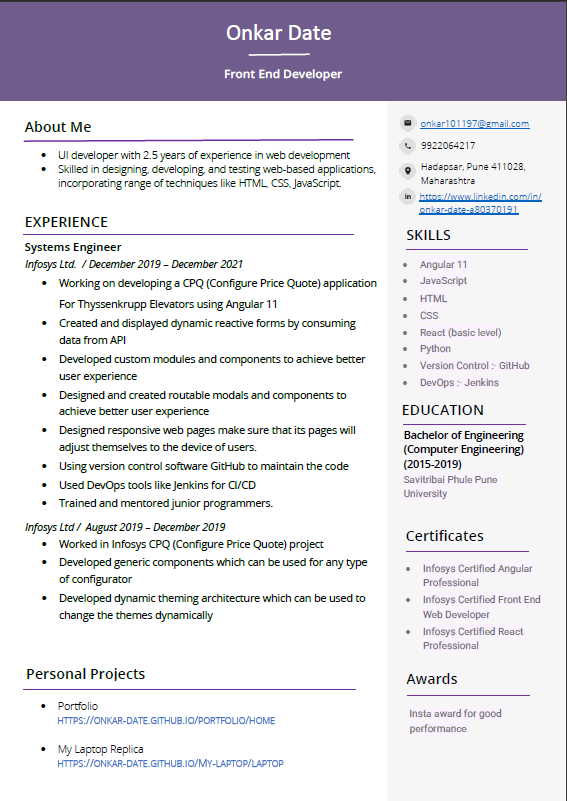
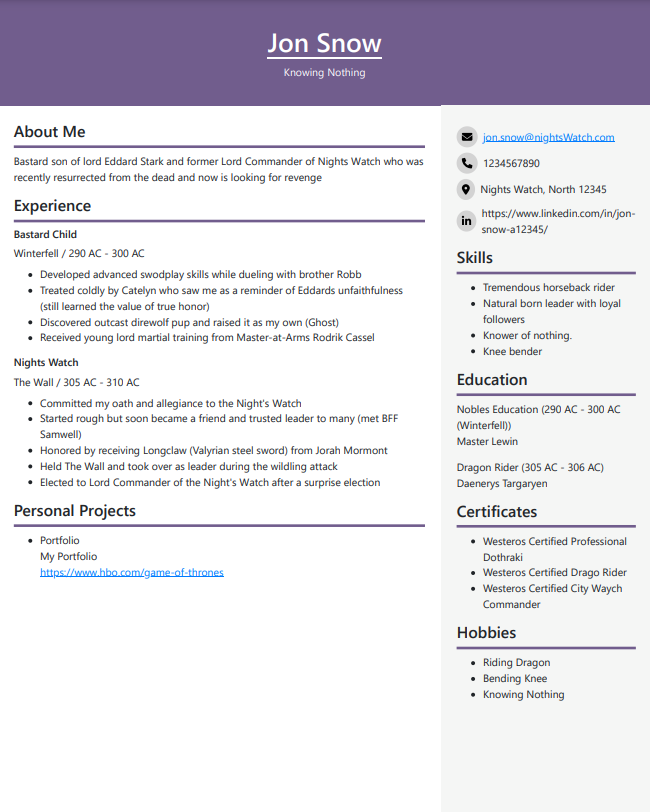
templates images changed

Changed region(s): [[0.0, 0.0, 1.0, 1.0], [0.03, 0.8115, 0.5097, 0.9675]]

diff --git a/src/app/shared/stub/mockData.ts b/src/app/shared/stub/mockData.ts
@@ -10,92 +10,69 @@ import { IExperience } from './../interface/experience.interface';
 import { IEducation } from '../interface/education.interface';
 
 export const mockPersonalDetails: IPersonalDetails = {
-  firstName: 'Onkar',
-  lastName: 'Date',
-  areaOfExpertise: 'Front End Developer',
+  firstName: 'Jon',
+  lastName: 'Snow',
+  areaOfExpertise: 'Knowing Nothing',
   aboutMe:
-    'UI developer with 3 years of experience in web development.Skilled in designing, developing, and testing web-based applications, incorporating range of techniques like HTML, CSS, JavaScript.',
+    'Bastard son of lord Eddard Stark and former Lord Commander of Nights Watch who was recently resurrected from the dead and now is looking for revenge',
 };
 
 export const mockSKills: ISkill[] = [
   {
-    name: 'Angular',
+    name: 'Tremendous horseback rider',
     rating: 5,
   },
   {
-    name: 'Node.js',
+    name: 'Natural born leader with loyal followers',
     rating: 5,
   },
   {
-    name: 'JavaSCript',
+    name: 'Knower of nothing.',
     rating: 4,
   },
   {
-    name: 'Bootstrap',
+    name: 'Knee bender',
     rating: 4,
-  },
-  {
-    name: 'Python',
-    rating: 3,
-  },
-  {
-    name: 'MongoDB',
-    rating: 3,
   },
 ];
 
 export const mockEducation: IEducation[] = [
   {
-    degree: 'Bachelor of Engineering (Computer Engineering)',
-    batch: '2015 - 2019',
-    university: 'Savitribai Phule Pune University',
+    degree: 'Nobles Education',
+    batch: '290 AC - 300 AC (Winterfell)',
+    university: 'Master Lewin',
   },
   {
-    degree: '12th',
-    batch: '2013 - 2015',
-    university: 'Sir Parashurambhau College',
-  },
-  {
-    degree: '10th',
-    batch: '2011 - 2013',
-    university: 'Sane Guruji Madhyamik Vidyalay',
+    degree: 'Dragon Rider',
+    batch: '305 AC - 306 AC',
+    university: 'Daenerys Targaryen',
   },
 ];
 
 export const mockExperience: IExperience[] = [
   {
-    companyName: 'Cognizant Technology Solutions',
-    designation: 'Associate Projects',
-    workedFrom: 'Dec, 2021',
-    workedTill: 'Present',
+    companyName: 'Winterfell',
+    designation: 'Bastard Child',
+    workedFrom: '290 AC',
+    workedTill: '300 AC',
     description: [
-      'Working on developing a angular application For Legato Health Technologies',
-      'Using library based approach for bringing modularity to application.',
-      'Using NgRx store for state management.',
+      'Developed advanced swodplay skills while dueling with brother Robb',
+      'Treated coldly by Catelyn who saw me as a reminder of Eddards unfaithfulness (still learned the value of true honor)',
+      'Discovered outcast direwolf pup and raised it as my own (Ghost)',
+      'Received young lord martial training from Master-at-Arms Rodrik Cassel',
     ],
   },
   {
-    companyName: 'Infosys Ltd.',
-    designation: 'Systems Engineer',
-    workedFrom: 'Jan, 2020',
-    workedTill: 'Dec, 2021',
+    companyName: 'The Wall',
+    designation: 'Nights Watch',
+    workedFrom: '305 AC',
+    workedTill: '310 AC',
     description: [
-      'Working on developing a CPQ (Configure Price Quote) application For Thyssenkrupp Elevators',
-      'Using Angular 11 Created and displayed dynamic reactive forms by consuming data from API.',
-      'Developed custom modules and components to achieve better user experience.',
-      'Designed and created routable modals and components to achieve better user experience',
-    ],
-  },
-  {
-    companyName: 'Infosys Ltd.',
-    designation: 'Systems Engineer Trainee',
-    workedFrom: 'Aug, 2019',
-    workedTill: 'Jan, 2020',
-    description: [
-      'Working on developing a CPQ (Configure Price Quote) application For Thyssenkrupp Elevators',
-      'Using Angular 11 Created and displayed dynamic reactive forms by consuming data from API.',
-      'Developed custom modules and components to achieve better user experience.',
-      'Designed and created routable modals and components to achieve better user experience',
+      "Committed my oath and allegiance to the Night's Watch",
+      'Started rough but soon became a friend and trusted leader to many (met BFF Samwell)',
+      'Honored by receiving Longclaw (Valyrian steel sword) from Jorah Mormont',
+      'Held The Wall and took over as leader during the wildling attack',
+      "Elected to Lord Commander of the Night's Watch after a surprise election",
     ],
   },
 ];
@@ -104,51 +81,35 @@ export const mockProjects: IProject[] = [
   {
     title: 'Portfolio',
     description: 'My Portfolio',
-    link: 'https://onkar-date.github.io/portfolio/home',
-  },
-  {
-    title: 'COVID-19 India',
-    description: 'Corona Tracker website made with Angular and bootstrap',
-    link: 'https://onkar-date.github.io/covid_India/dashboard/home',
-  },
-  {
-    title: 'Wanderlust',
-    description: 'MEAN stack project for planning trips',
-    link: 'https://onkar-date.github.io/wanderlust-UI/home',
-  },
-  {
-    title: 'My Laptop Replica',
-    description:
-      'Replica of my laptop created with Angular and bootstrap and little bit of JS',
-    link: 'https://onkar-date.github.io/My-laptop/laptop',
+    link: 'https://www.hbo.com/game-of-thrones',
   },
 ];
 
 export const mockCertificates: ICertificate[] = [
   {
-    title: 'Infosys Certified Angular Professional',
-    yearOfCompletion: '2021',
+    title: 'Westeros Certified Professional Dothraki',
+    yearOfCompletion: '305',
   },
   {
-    title: 'Infosys Certified Front End Web Developer',
-    yearOfCompletion: '2020',
+    title: 'Westeros Certified Drago Rider',
+    yearOfCompletion: '310',
   },
   {
-    title: 'Infosys Certified React Professional',
-    yearOfCompletion: '2020',
+    title: 'Westeros Certified City Waych Commander',
+    yearOfCompletion: '315',
   },
 ];
 
 export const mockTemplate: ITemplate = {
-  id: 'T105',
-  name: 'Template 5',
+  id: 'T101',
+  name: 'Template 1',
 };
 
 export const mockContactDetails: ICOntactDetails = {
-  mobile: '9922064217',
-  email: 'onkar101197@gmail.com',
-  linkedIn: 'adadadadada./adadad',
-  address: 'Hadapsar, Pune 411028',
+  mobile: '1234567890',
+  email: 'jon.snow@nightsWatch.com',
+  linkedIn: 'https://www.linkedin.com/in/jon-snow-a12345/',
+  address: 'Nights Watch, North 12345',
 };
 
 export const mockInitialState: CVState = {
@@ -169,7 +130,7 @@ export const mockInitialState: CVState = {
   education: [...mockEducation],
   projects: [...mockProjects],
   certificates: [...mockCertificates],
-  interest: ['Playing Games', 'Surfing Internet', 'Playing Guitar'],
+  interest: ['Riding Dragon', 'Bending Knee', 'Knowing Nothing'],
   template: {
     name: mockTemplate.name,
     id: mockTemplate.id,

diff --git a/src/app/library/shared-components/add-experience-modal/add-experience-modal.component.ts b/src/app/library/shared-components/add-experience-modal/add-experience-modal.component.ts
@@ -21,11 +21,11 @@ export class AddExperienceModalComponent implements OnInit {
 
   initForm(): void {
     this.experienceForm = this.fb.group({
-      companyName: ['Infosys', Validators.required],
-      designation: ['Systems Engineer', Validators.required],
+      companyName: ['', Validators.required],
+      designation: ['', Validators.required],
       workedFrom: ['', Validators.required],
       workedTill: ['', Validators.required],
-      description: [['adadd'], [Validators.required]],
+      description: [[''], [Validators.required]],
     });
   }
 

diff --git a/src/app/pages/education/education.component.html b/src/app/pages/education/education.component.html
@@ -54,7 +54,7 @@
                             <form [formGroup]="newEducationForm">
                                 <div class="form-group mb-0">
                                     <input type="text" class="form-control" formControlName="university"
-                                        placeholder="eg. Modern College of Engineering">
+                                        placeholder="eg. City College of Engineering">
                                 </div>
                             </form>
                         </td>

diff --git a/src/app/library/shared-components/add-project-modal/add-project-modal.component.ts b/src/app/library/shared-components/add-project-modal/add-project-modal.component.ts
@@ -18,8 +18,8 @@ export class AddProjectModalComponent implements OnInit {
 
   initForm(): void {
     this.projectForm = this.fb.group({
-      title: ['Infosys', Validators.required],
-      description: ['Systems Engineer', Validators.required],
+      title: ['', Validators.required],
+      description: ['', Validators.required],
       link: [''],
     });
   }

diff --git a/src/app/state/CV-State/cv.reducer.ts b/src/app/state/CV-State/cv.reducer.ts
@@ -51,7 +51,7 @@ export interface CVState {
   sectionValidity: ISectionValidity;
 }
 
-const initialState: CVState = {
+const initialState: CVState = mockInitialState || {
   personalDetails: {
     firstName: '',
     lastName: '',
